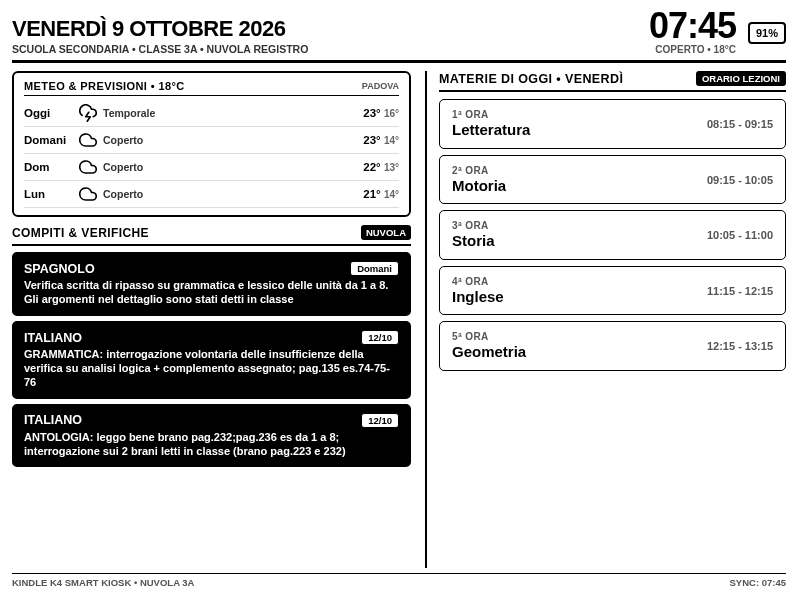
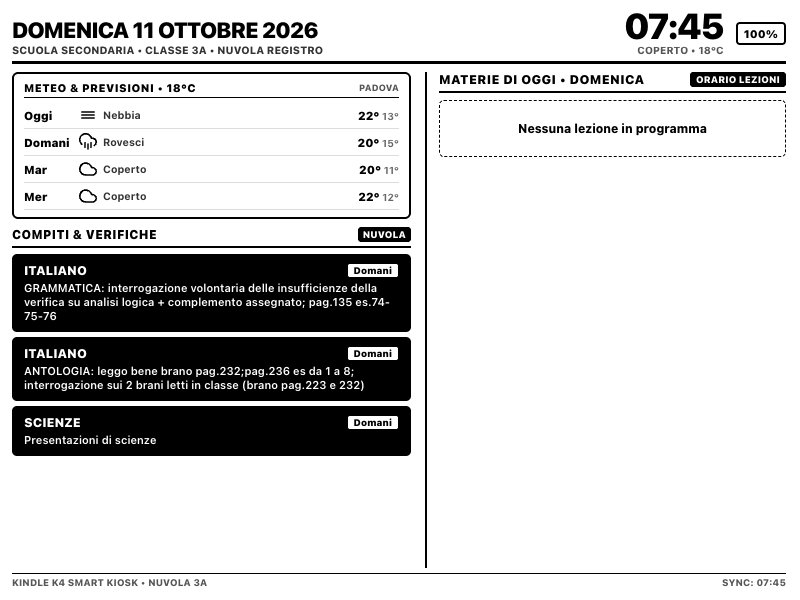
fix(k4): calcolo dinamico date compiti con filtro eventi passati e resilienza cache Nuvola

diff --git a/nuvola_client.py b/nuvola_client.py
@@ -14,13 +14,14 @@ _CACHE_DATA = {
     "compiti": []
 }
 
-def load_cached_compiti():
+def load_cached_compiti(allow_stale=False):
     global _CACHE_DATA
     if os.path.exists(CACHE_FILE):
         try:
             with open(CACHE_FILE, "r", encoding="utf-8") as f:
                 d = json.load(f)
-                if time.time() - d.get("timestamp", 0) < 1800:
+                age = time.time() - d.get("timestamp", 0)
+                if age < 1800 or allow_stale:
                     _CACHE_DATA = d
                     return d.get("compiti", [])
         except Exception:
@@ -28,33 +29,38 @@ def load_cached_compiti():
     return _CACHE_DATA.get("compiti", [])
 
 def get_bearer_token(cookies_header):
-    req = urllib.request.Request(
-        "https://nuvola.madisoft.it/api-studente/v1/login-from-web",
-        headers={
-            "User-Agent": "Mozilla/5.0 (Macintosh; Intel Mac OS X 10_15_7)",
-            "Cookie": cookies_header,
-            "Accept": "application/json"
-        }
-    )
-    with urllib.request.urlopen(req, timeout=8) as r:
-        if r.status == 200:
-            d = json.loads(r.read().decode("utf-8"))
-            return d.get("token")
+    try:
+        req = urllib.request.Request(
+            "https://nuvola.madisoft.it/api-studente/v1/login-from-web",
+            headers={
+                "User-Agent": "Mozilla/5.0 (Macintosh; Intel Mac OS X 10_15_7)",
+                "Cookie": cookies_header,
+                "Accept": "application/json"
+            }
+        )
+        with urllib.request.urlopen(req, timeout=8) as r:
+            if r.status == 200:
+                ct = r.headers.get("Content-Type", "")
+                if "application/json" in ct:
+                    d = json.loads(r.read().decode("utf-8"))
+                    return d.get("token")
+    except Exception as e:
+        print("Nuvola: Errore rinnovo bearer token:", e)
     return None
 
 def fetch_nuvola_agenda(force_refresh=False):
     global _CACHE_DATA
     now_ts = time.time()
-    if not force_refresh and (now_ts - _CACHE_DATA["timestamp"] < 1800):
-        if _CACHE_DATA["compiti"]:
+    if not force_refresh and (now_ts - _CACHE_DATA.get("timestamp", 0) < 1800):
+        if _CACHE_DATA.get("compiti"):
             return _CACHE_DATA["compiti"]
 
-    cached = load_cached_compiti()
+    cached = load_cached_compiti(allow_stale=False)
     if cached and not force_refresh:
         return cached
 
     if not os.path.exists(SESSION_FILE):
-        return cached or []
+        return load_cached_compiti(allow_stale=True)
 
     try:
         with open(SESSION_FILE, "r", encoding="utf-8") as f:
@@ -65,8 +71,8 @@ def fetch_nuvola_agenda(force_refresh=False):
         
         token = get_bearer_token(cookie_header)
         if not token:
-            print("Nuvola: Impossibile rinnovare Bearer token con la sessione attuale")
-            return cached or []
+            print("Nuvola: Bearer token non disponibile o sessione web scaduta, uso cache locale")
+            return load_cached_compiti(allow_stale=True)
 
         headers = {
             "Authorization": f"Bearer {token}",
@@ -101,17 +107,10 @@ def fetch_nuvola_agenda(force_refresh=False):
                             if any(k in low for k in ["verifica", "interrogazione", "test", "compito in classe"]):
                                 is_test = True
 
-                            if target_d == today:
-                                d_label = "Oggi"
-                            elif target_d == today + timedelta(days=1):
-                                d_label = "Domani"
-                            else:
-                                d_label = target_d.strftime("%d/%m")
-
                             compiti_list.append({
                                 "materia": materia.upper().strip(),
                                 "docente": item.get("docente", "").strip(),
-                                "data": d_label,
+                                "data": target_d.strftime("%d/%m"),
                                 "date_val": target_d.isoformat(),
                                 "descrizione": desc.strip(),
                                 "is_test": is_test
@@ -131,17 +130,10 @@ def fetch_nuvola_agenda(force_refresh=False):
                         if ev_d_str:
                             ev_d = datetime.fromisoformat(ev_d_str).date()
                             if ev_d >= today:
-                                if ev_d == today:
-                                    d_label = "Oggi"
-                                elif ev_d == today + timedelta(days=1):
-                                    d_label = "Domani"
-                                else:
-                                    d_label = ev_d.strftime("%d/%m")
-
                                 compiti_list.append({
                                     "materia": (ev.get("nome") or "AVVISO").upper().strip(),
                                     "docente": ev.get("docente", "").strip(),
-                                    "data": d_label,
+                                    "data": ev_d.strftime("%d/%m"),
                                     "date_val": ev_d.isoformat(),
                                     "descrizione": ev.get("descrizione", "").strip(),
                                     "is_test": True
@@ -152,15 +144,17 @@ def fetch_nuvola_agenda(force_refresh=False):
         # Ordina per data crescente (prima verifiche se stesso giorno)
         compiti_list.sort(key=lambda x: (x["date_val"], not x["is_test"]))
 
-        _CACHE_DATA = {
-            "timestamp": now_ts,
-            "compiti": compiti_list
-        }
-        with open(CACHE_FILE, "w", encoding="utf-8") as f:
-            json.dump(_CACHE_DATA, f, ensure_ascii=False, indent=2)
-
-        return compiti_list
+        if compiti_list:
+            _CACHE_DATA = {
+                "timestamp": now_ts,
+                "compiti": compiti_list
+            }
+            with open(CACHE_FILE, "w", encoding="utf-8") as f:
+                json.dump(_CACHE_DATA, f, ensure_ascii=False, indent=2)
+            return compiti_list
+        else:
+            return load_cached_compiti(allow_stale=True)
 
     except Exception as e:
         print("Errore fetch Nuvola agenda:", e)
-        return cached or []
+        return load_cached_compiti(allow_stale=True)

diff --git a/login_nuvola.py b/login_nuvola.py
@@ -1,0 +1,111 @@
+#!/usr/bin/env python3
+"""
+Script per il rinnovo automatico della sessione di Nuvola Registro Elettronico.
+Apre una finestra di Google Chrome per permettere all'utente di autenticarsi con CIE o SPID.
+Una volta completato l'accesso, cattura i cookie, aggiorna i compiti e sincronizza automaticamente il server Kindle (CT 141).
+"""
+
+import asyncio
+import json
+import os
+import subprocess
+import time
+from playwright.async_api import async_playwright
+import nuvola_client
+
+BASE_DIR = os.path.dirname(os.path.abspath(__file__))
+SESSION_FILE = os.path.join(BASE_DIR, "data", "nuvola_session.json")
+CACHE_FILE = "/tmp/nuvola_cache.json"
+
+async def main():
+    print("=" * 65)
+    print("   RINNOVO SESSIONE REGISTRO ELETTRONICO NUVOLA PER KINDLE")
+    print("=" * 65)
+    print("Si sta aprendo una finestra di Google Chrome con la pagina di Nuvola.")
+    print("Effettua l'accesso tramite CIE, SPID o credenziali.")
+    print("Non appena entrerai nel registro, la sessione verrà catturata")
+    print("e i compiti aggiornati verranno sincronizzati direttamente sul Kindle!")
+    print("=" * 65)
+
+    async with async_playwright() as p:
+        browser = await p.chromium.launch(
+            executable_path='/Applications/Google Chrome.app/Contents/MacOS/Google Chrome',
+            headless=False
+        )
+        context = await browser.new_context()
+        page = await context.new_page()
+
+        await page.goto("https://nuvola.madisoft.it/login")
+
+        logged_in = False
+        start_t = time.time()
+        while time.time() - start_t < 300:  # Timeout 5 minuti
+            cur_url = page.url
+            if ("nuvola.madisoft.it" in cur_url and
+                "login" not in cur_url.lower() and
+                "auth.nuvola" not in cur_url.lower() and
+                "check" not in cur_url.lower()):
+
+                await asyncio.sleep(2)
+                cookies = await context.cookies()
+                nuvola_cookie_names = [c["name"] for c in cookies if "nuvola" in c.get("domain", "")]
+                if any("nuvola" in name.lower() or "session" in name.lower() for name in nuvola_cookie_names):
+                    logged_in = True
+                    print("\n[SUCCESS] Accesso a Nuvola rilevato con successo!")
+                    print(f"URL: {cur_url}")
+
+                    os.makedirs(os.path.dirname(SESSION_FILE), exist_ok=True)
+                    with open(SESSION_FILE, "w", encoding="utf-8") as f:
+                        json.dump({
+                            "url": cur_url,
+                            "cookies": cookies,
+                            "timestamp": time.time()
+                        }, f, indent=2)
+                    print(f"[OK] Sessione salvata in: {SESSION_FILE}")
+
+                    # Effettua subito il fetch e rigenera la cache locale
+                    print("\n[INFO] Aggiornamento compiti e verifiche via API Nuvola...")
+                    compiti = nuvola_client.fetch_nuvola_agenda(force_refresh=True)
+                    print(f"[OK] Scaricati {len(compiti)} compiti ed eventi futuri.")
+
+                    # Deploy automatico su LXC 141 (Proxmox)
+                    print("\n[INFO] Sincronizzazione con il server del Kindle (CT 141)...")
+                    try:
+                        subprocess.run(
+                            ["scp", "-o", "BatchMode=yes", "-o", "StrictHostKeyChecking=no",
+                             SESSION_FILE, "root@192.168.1.250:/tmp/nuvola_session.json"],
+                            check=True, stdout=subprocess.DEVNULL, stderr=subprocess.DEVNULL
+                        )
+                        if os.path.exists(CACHE_FILE):
+                            subprocess.run(
+                                ["scp", "-o", "BatchMode=yes", "-o", "StrictHostKeyChecking=no",
+                                 CACHE_FILE, "root@192.168.1.250:/tmp/nuvola_cache.json"],
+                                check=True, stdout=subprocess.DEVNULL, stderr=subprocess.DEVNULL
+                            )
+
+                        push_cmd = (
+                            "pct push 141 /tmp/nuvola_session.json /opt/kindleCalendar/data/nuvola_session.json && "
+                            "pct push 141 /tmp/nuvola_cache.json /tmp/nuvola_cache.json && "
+                            "pct exec 141 -- chown root:root /opt/kindleCalendar/data/nuvola_session.json && "
+                            "pct exec 141 -- systemctl restart kindle-server"
+                        )
+                        subprocess.run(
+                            ["ssh", "-o", "BatchMode=yes", "-o", "StrictHostKeyChecking=no",
+                             "root@192.168.1.250", push_cmd],
+                            check=True, stdout=subprocess.DEVNULL, stderr=subprocess.DEVNULL
+                        )
+                        print("[SUCCESS] Server e cache CT 141 sincronizzati con successo!")
+                    except Exception as e:
+                        print(f"[AVVISO] Sincronizzazione automatica su CT 141 non riuscita: {e}")
+
+                    break
+
+            await asyncio.sleep(1)
+
+        if not logged_in:
+            print("\n[TIMEOUT] Nessun accesso completato entro 5 minuti.")
+
+        await browser.close()
+
+if __name__ == "__main__":
+    asyncio.run(main())

diff --git a/dashboard_k4.py b/dashboard_k4.py
@@ -49,9 +49,15 @@ def load_orario_k4():
     return {"schedule": {}}
 
 def build_k4_dashboard_html(query_params, weather_getter=None):
-    ts_param = query_params.get("ts", [""])[0]
-    time_param = query_params.get("time", [""])[0]
-    date_param = query_params.get("date", [""])[0]
+    def get_param(name):
+        val = query_params.get(name, "")
+        if isinstance(val, list):
+            return val[0] if val else ""
+        return str(val) if val else ""
+
+    ts_param = get_param("ts")
+    time_param = get_param("time")
+    date_param = get_param("date")
 
     if ts_param:
         try:
@@ -176,12 +182,58 @@ def build_k4_dashboard_html(query_params, weather_getter=None):
 
     # Helper rendering compiti compatti (senza limiti di righe, stile PW1 per verifiche/compiti)
     def render_tasks_box_html(tasks, title, subtitle, max_items=4):
-        filtered = [t for t in tasks if t.get("data") in ["Domani"] or (t.get("date_val", "") >= today_date.isoformat())]
-        if not filtered:
-            filtered = [t for t in tasks if t.get("date_val", "") >= today_date.isoformat()]
+        hide_today_tasks = (now.hour >= 19)
+
+        visible = []
+        for t in (tasks or []):
+            date_val_str = t.get("date_val", "")
+            t_date = None
+            if date_val_str:
+                try:
+                    t_date = datetime.fromisoformat(date_val_str).date()
+                except Exception:
+                    pass
+
+            if not t_date:
+                raw_d = t.get("data", "")
+                if "/" in raw_d:
+                    try:
+                        parts = raw_d.split("/")
+                        t_date = datetime(today_date.year, int(parts[1]), int(parts[0])).date()
+                    except Exception:
+                        pass
+
+            if not t_date:
+                continue
+
+            # Filtra compiti già passati prima di oggi
+            if t_date < today_date:
+                continue
+
+            # Alle 19:00 o oltre nascondi i compiti della giornata stessa
+            if hide_today_tasks and t_date == today_date:
+                continue
+
+            # Ricalcola etichetta temporale dinamica rispetto alla data del render (today_date)
+            if t_date == today_date:
+                d_label = "Oggi"
+            elif t_date == tomorrow_date:
+                d_label = "Domani"
+            else:
+                d_label = t_date.strftime("%d/%m")
+
+            visible.append({
+                "materia": t.get("materia", "COMPITO"),
+                "data": d_label,
+                "date_val": t_date,
+                "descrizione": t.get("descrizione", ""),
+                "is_test": t.get("is_test", False)
+            })
+
+        visible.sort(key=lambda x: (x["date_val"], not x["is_test"]))
 
         items_html = ""
-        for t in filtered[:max_items]:
+        for t in visible[:max_items]:
             is_test = t.get("is_test", False)
             bg = "#000" if is_test else "#fff"
             text_color = "#fff" if is_test else "#000"
